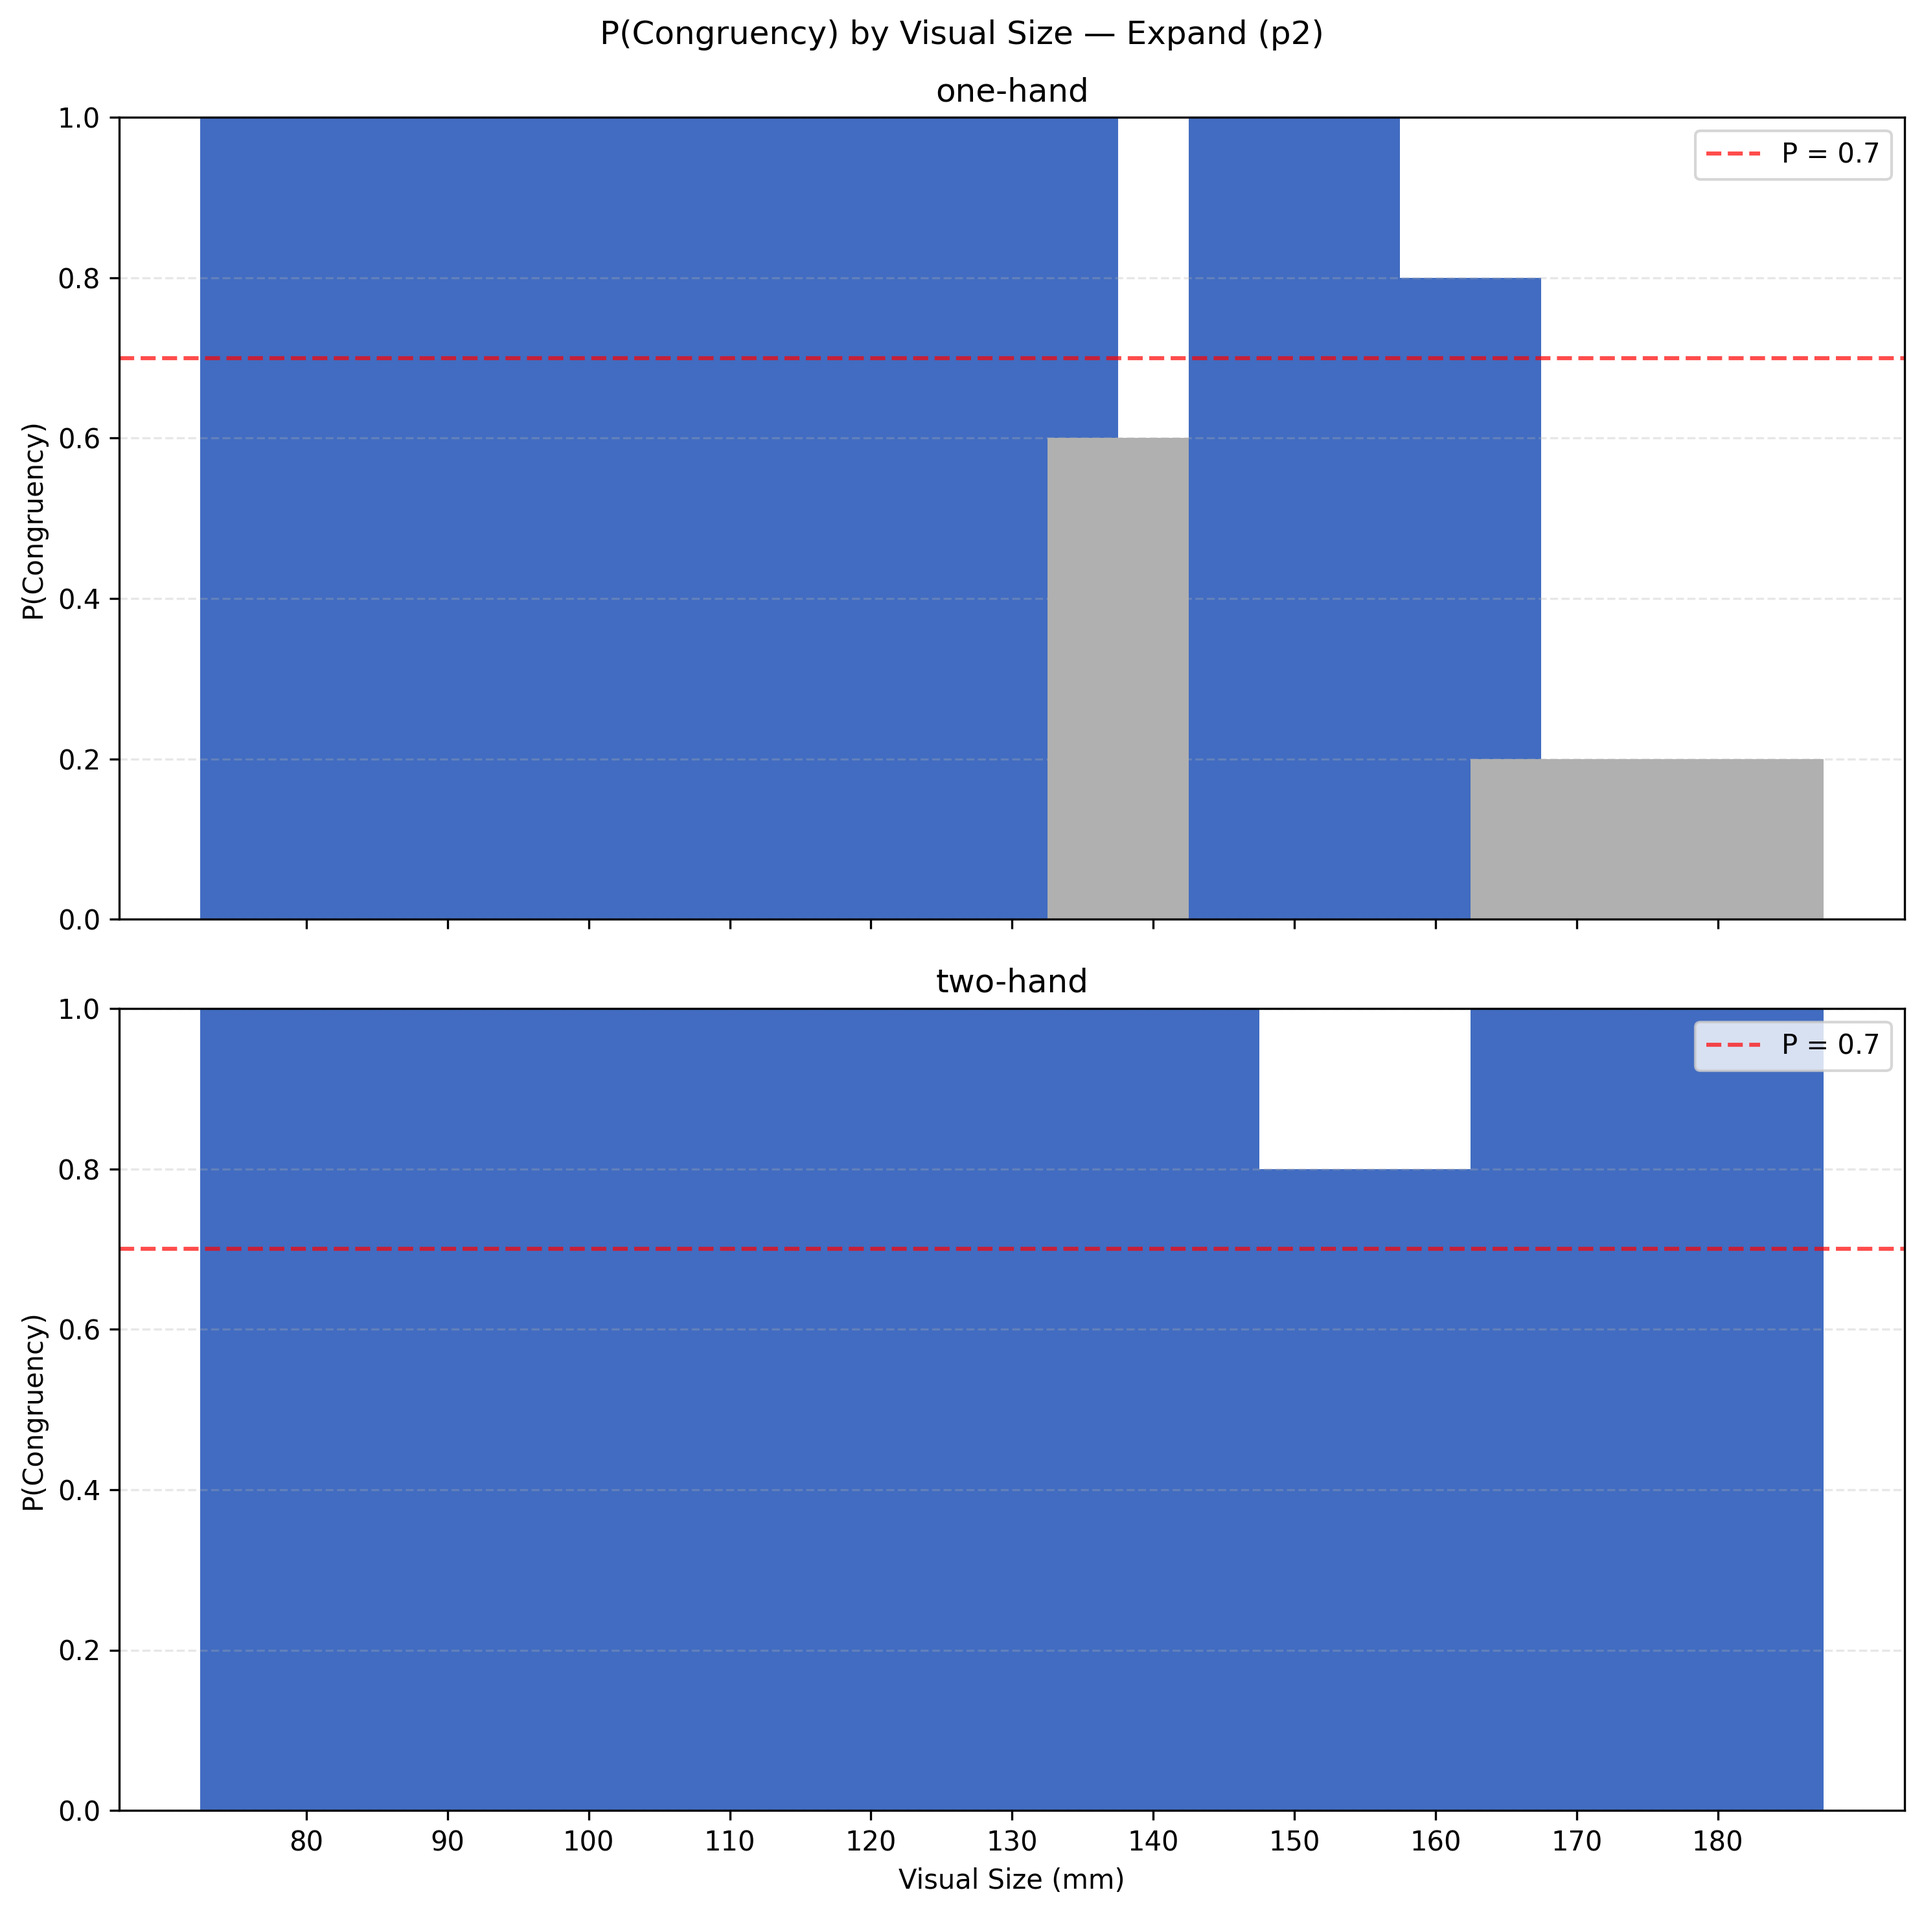
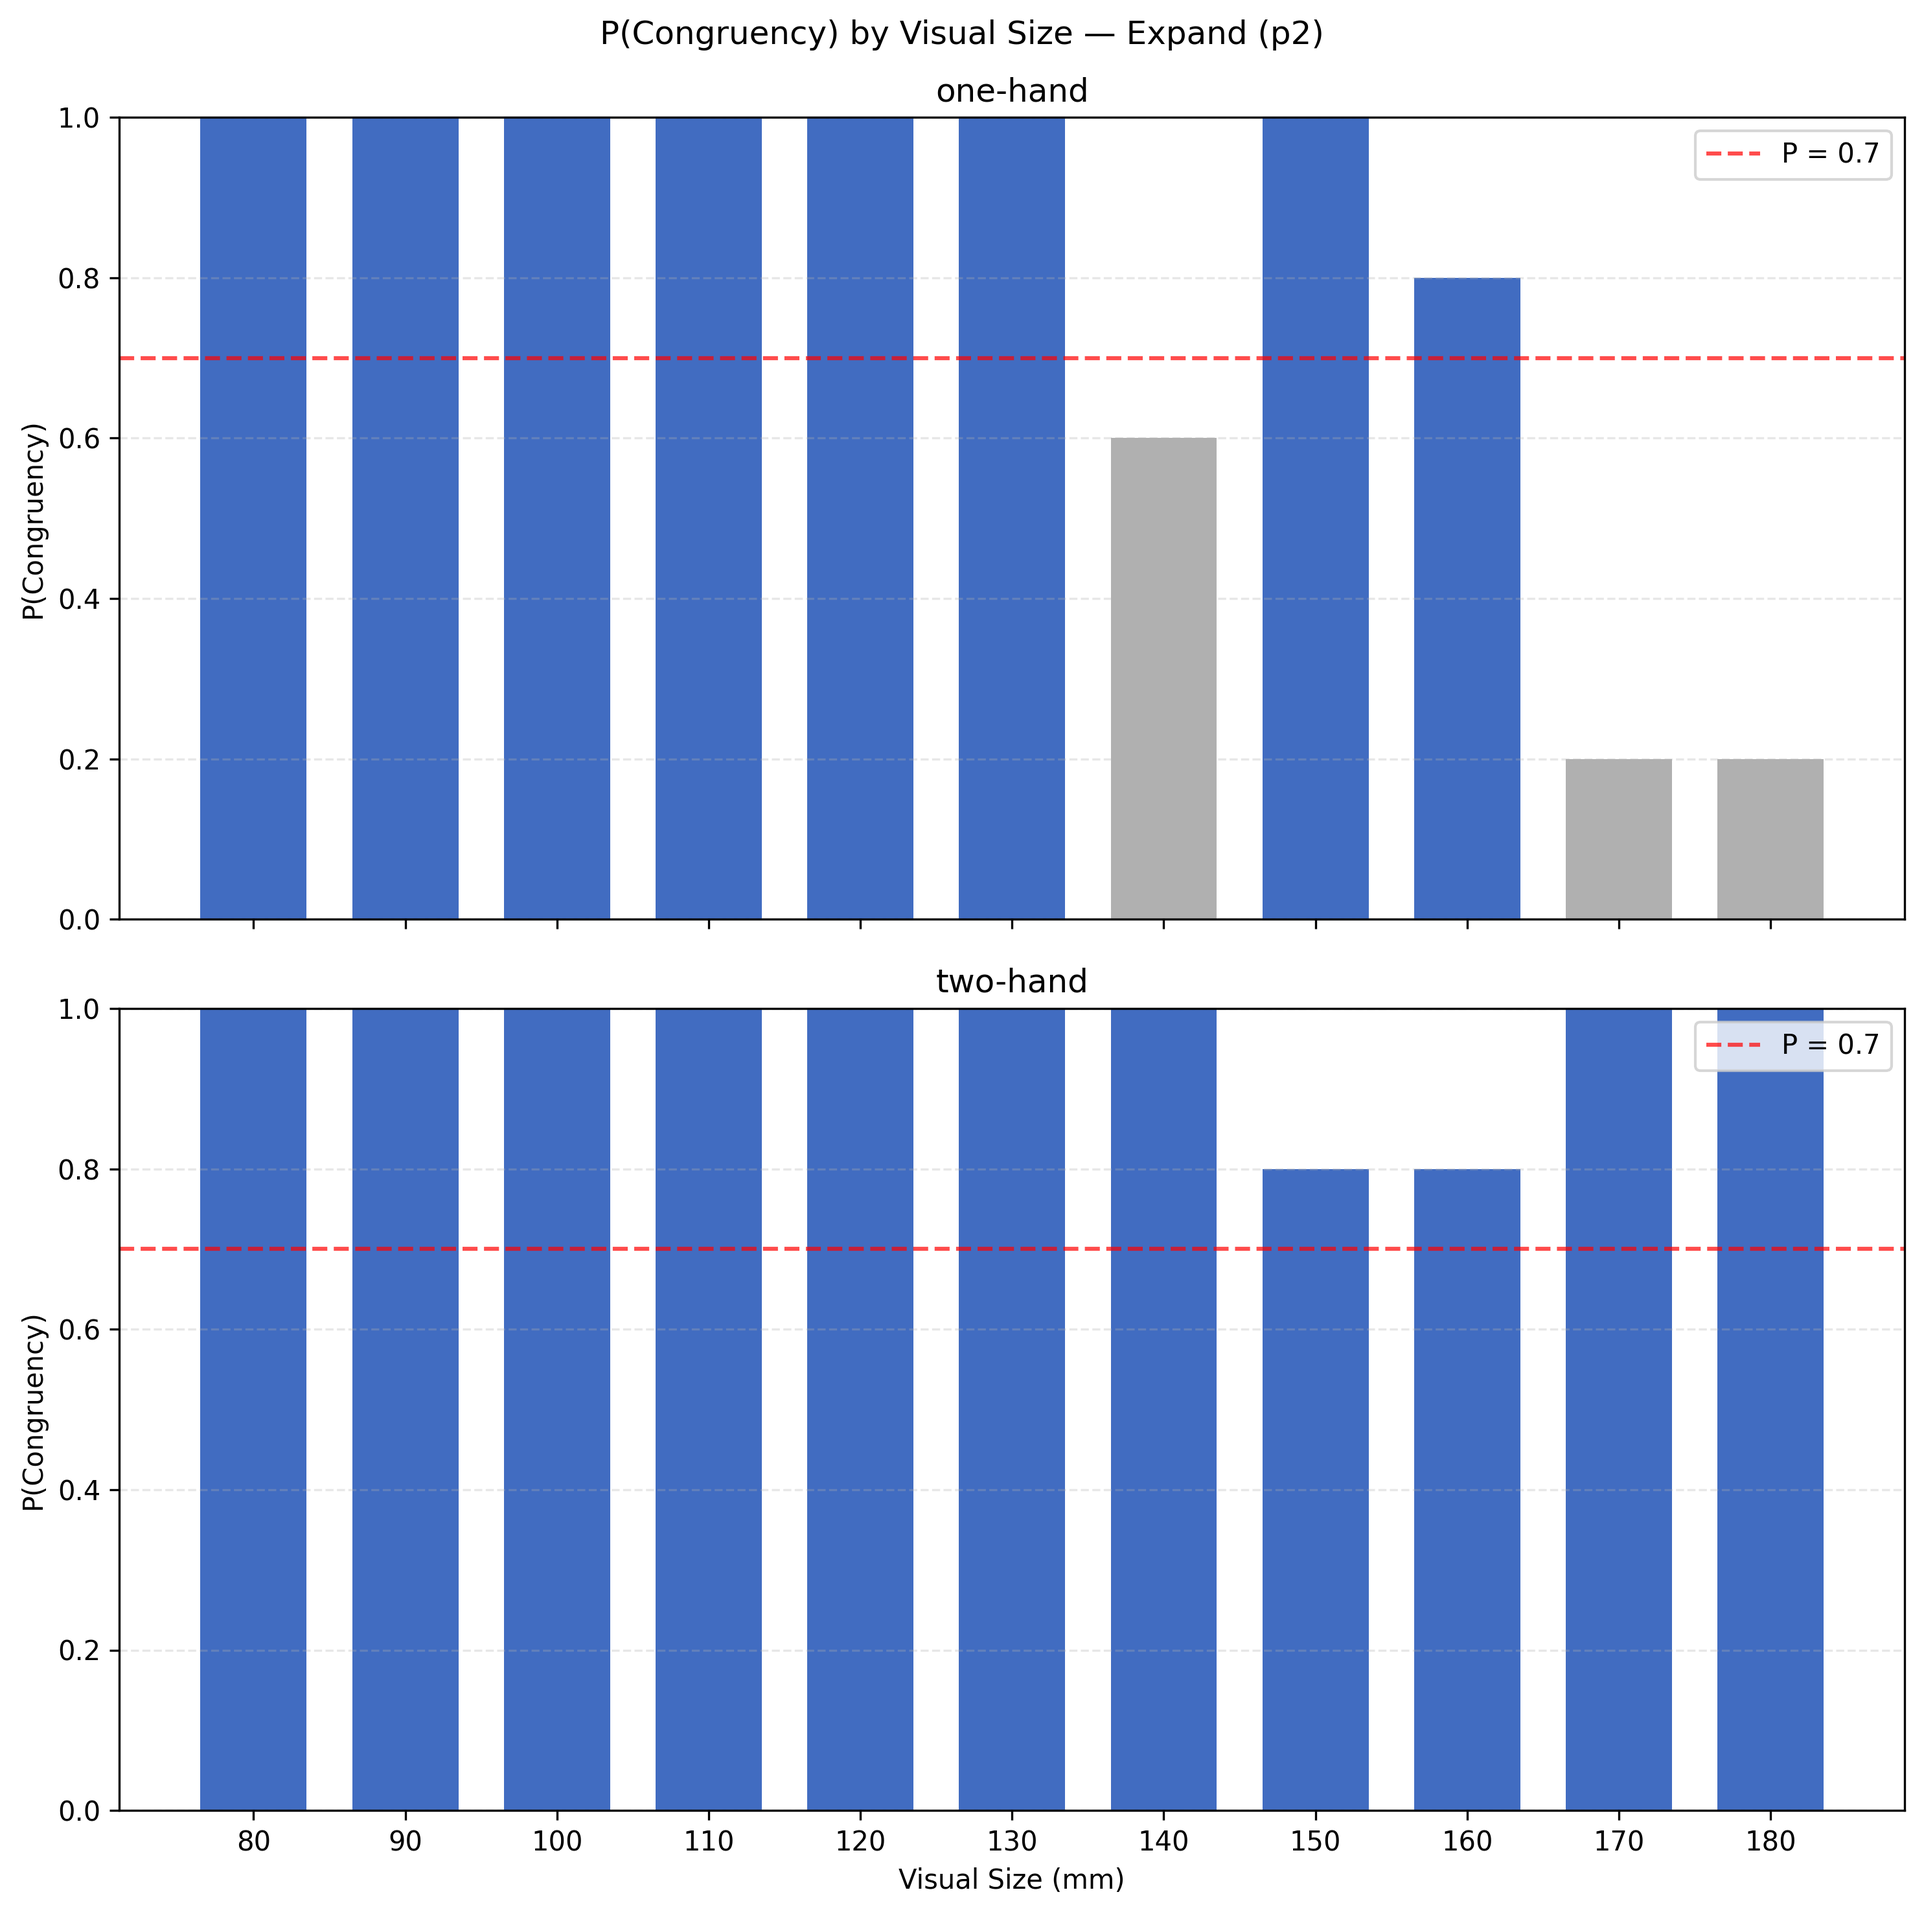
pilot analysis wip

diff --git a/Assets/data/study2_small/visualizer.py b/Assets/data/study2_small/visualizer.py
@@ -40,7 +40,7 @@ def generate_figures(df, results_dir, label):
         grouped = sdf.groupby("visualSize")["congruency"].mean()
 
         colors = ['#416cc1' if v >= 0.7 else '#b0b0b0' for v in grouped.values]
-        ax.bar(grouped.index, grouped.values, width=3, color=colors)
+        ax.bar(grouped.index, grouped.values, width=1.5, color=colors)
         ax.axhline(y=0.7, color='red', linestyle='--', alpha=0.7, label='P = 0.7')
 
         ax.set_xticks(visual_sizes)
@@ -74,7 +74,7 @@ def generate_figures(df, results_dir, label):
             grouped = sdf.groupby("visualSize")[metric].mean()
             values = grouped.values * 1000 if metric == "distance" else grouped.values
 
-            ax.bar(grouped.index, values, width=3, color='#416cc1')
+            ax.bar(grouped.index, values, width=1.5, color='#416cc1')
             ax.set_xticks(visual_sizes)
             ax.set_ylabel(ylabel)
             ax.set_title(scenario)

diff --git a/Assets/data/study2_large/visualizer.py b/Assets/data/study2_large/visualizer.py
@@ -40,7 +40,7 @@ def generate_figures(df, results_dir, label):
         grouped = sdf.groupby("visualSize")["congruency"].mean()
 
         colors = ['#416cc1' if v >= 0.7 else '#b0b0b0' for v in grouped.values]
-        ax.bar(grouped.index, grouped.values, width=15, color=colors)
+        ax.bar(grouped.index, grouped.values, width=7, color=colors)
         ax.axhline(y=0.7, color='red', linestyle='--', alpha=0.7, label='P = 0.7')
 
         ax.set_xticks(visual_sizes)
@@ -74,7 +74,7 @@ def generate_figures(df, results_dir, label):
             grouped = sdf.groupby("visualSize")[metric].mean()
             values = grouped.values * 1000 if metric == "distance" else grouped.values
 
-            ax.bar(grouped.index, values, width=15, color='#416cc1')
+            ax.bar(grouped.index, values, width=7, color='#416cc1')
             ax.set_xticks(visual_sizes)
             ax.set_ylabel(ylabel)
             ax.set_title(scenario)
